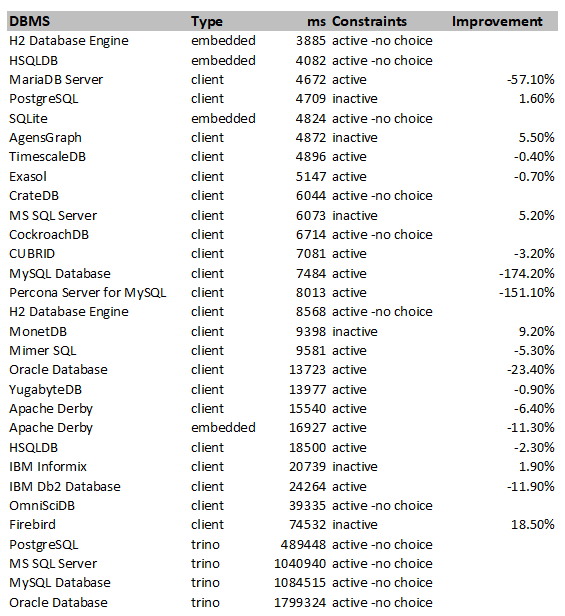
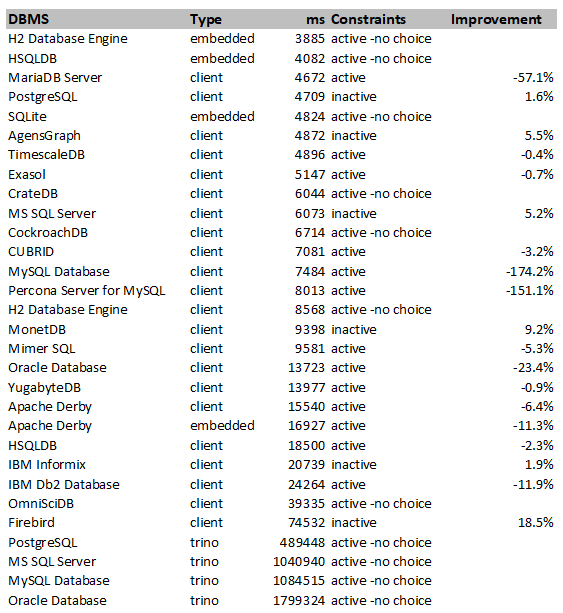
Version 3.0.2

diff --git a/Release-Notes.md b/Release-Notes.md
@@ -58,7 +58,7 @@ The detailed results can be found in the DBSeeder repository in the `resources/s
 
 The following table shows the results of the Windows 10 run. 
 If the database can run with both activated and deactivated constraints (foreign, primary and unique key), the table shows the better value and in the column `Improvement` the relative value to the worse run. 
-For example, the MonetDB database is faster with inactive constraints by 21.2% compared to the run with activated constraints.
+For example, the MonetDB database is faster with inactive constraints by 9.2% compared to the run with activated constraints.
 
 ![](resources/.README_images/Perf_Snap_3.0.2_win10.png)
 
